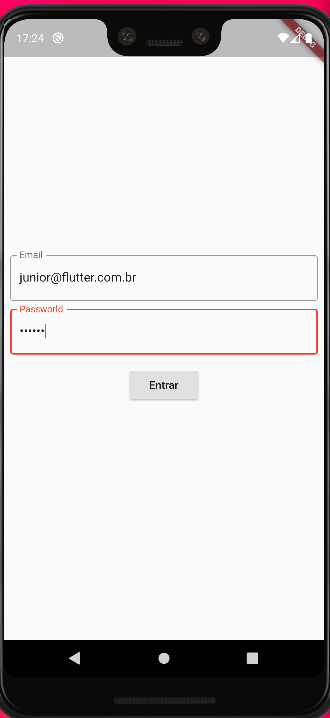
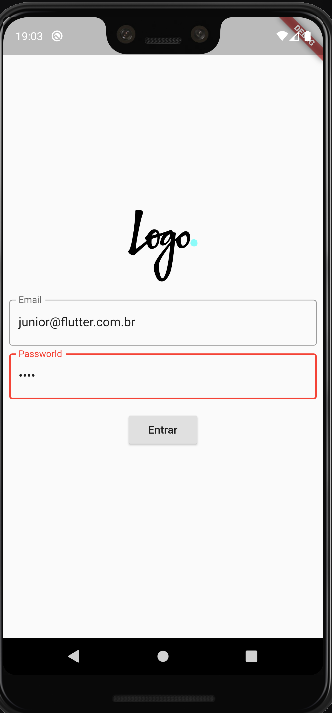
Curso Flutter #21 - Image.network (Adicionando imagem da internet)

Changed region(s): [[0.0, 0.0, 1.0, 1.0], [0.3333, 0.9874, 0.8485, 1.0]]

diff --git a/lib/login_page.dart b/lib/login_page.dart
@@ -26,6 +26,15 @@ class _LoginPageState extends State<LoginPage> {
             child: Column(
               mainAxisAlignment: MainAxisAlignment.center,
               children: [
+                Container(
+                  width: 100,
+                  height: 100,
+                  child: Image.network(
+                      "https://upload.wikimedia.org/wikipedia/commons/a/ab/Logo_TV_2015.png"),
+                ),
+                Container(
+                  height: 20,
+                ),
                 TextField(
                     onChanged: (text) {
                       email = text;
